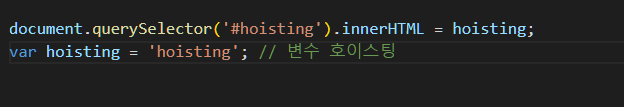
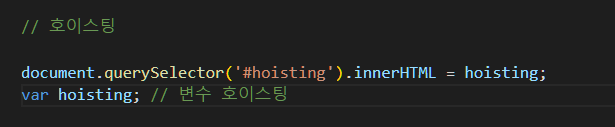
White : 약간 수정

Changed region(s): [[0.0, 0.3925, 0.8959, 0.6449], [0.0, 0.1402, 0.865, 0.3645], [0.0309, 0.6729, 0.4634, 0.8131]]

diff --git a/White/Chapter4_변수/script.js b/White/Chapter4_변수/script.js
@@ -11,7 +11,7 @@ document.querySelector('#variable_3').innerHTML = variable_3;
 // 호이스팅
 
 document.querySelector('#hoisting').innerHTML = hoisting;
-var hoisting = 'hoisting'; // 변수 호이스팅
+var hoisting; // 변수 호이스팅
 
 // 네이밍 규칙
 
